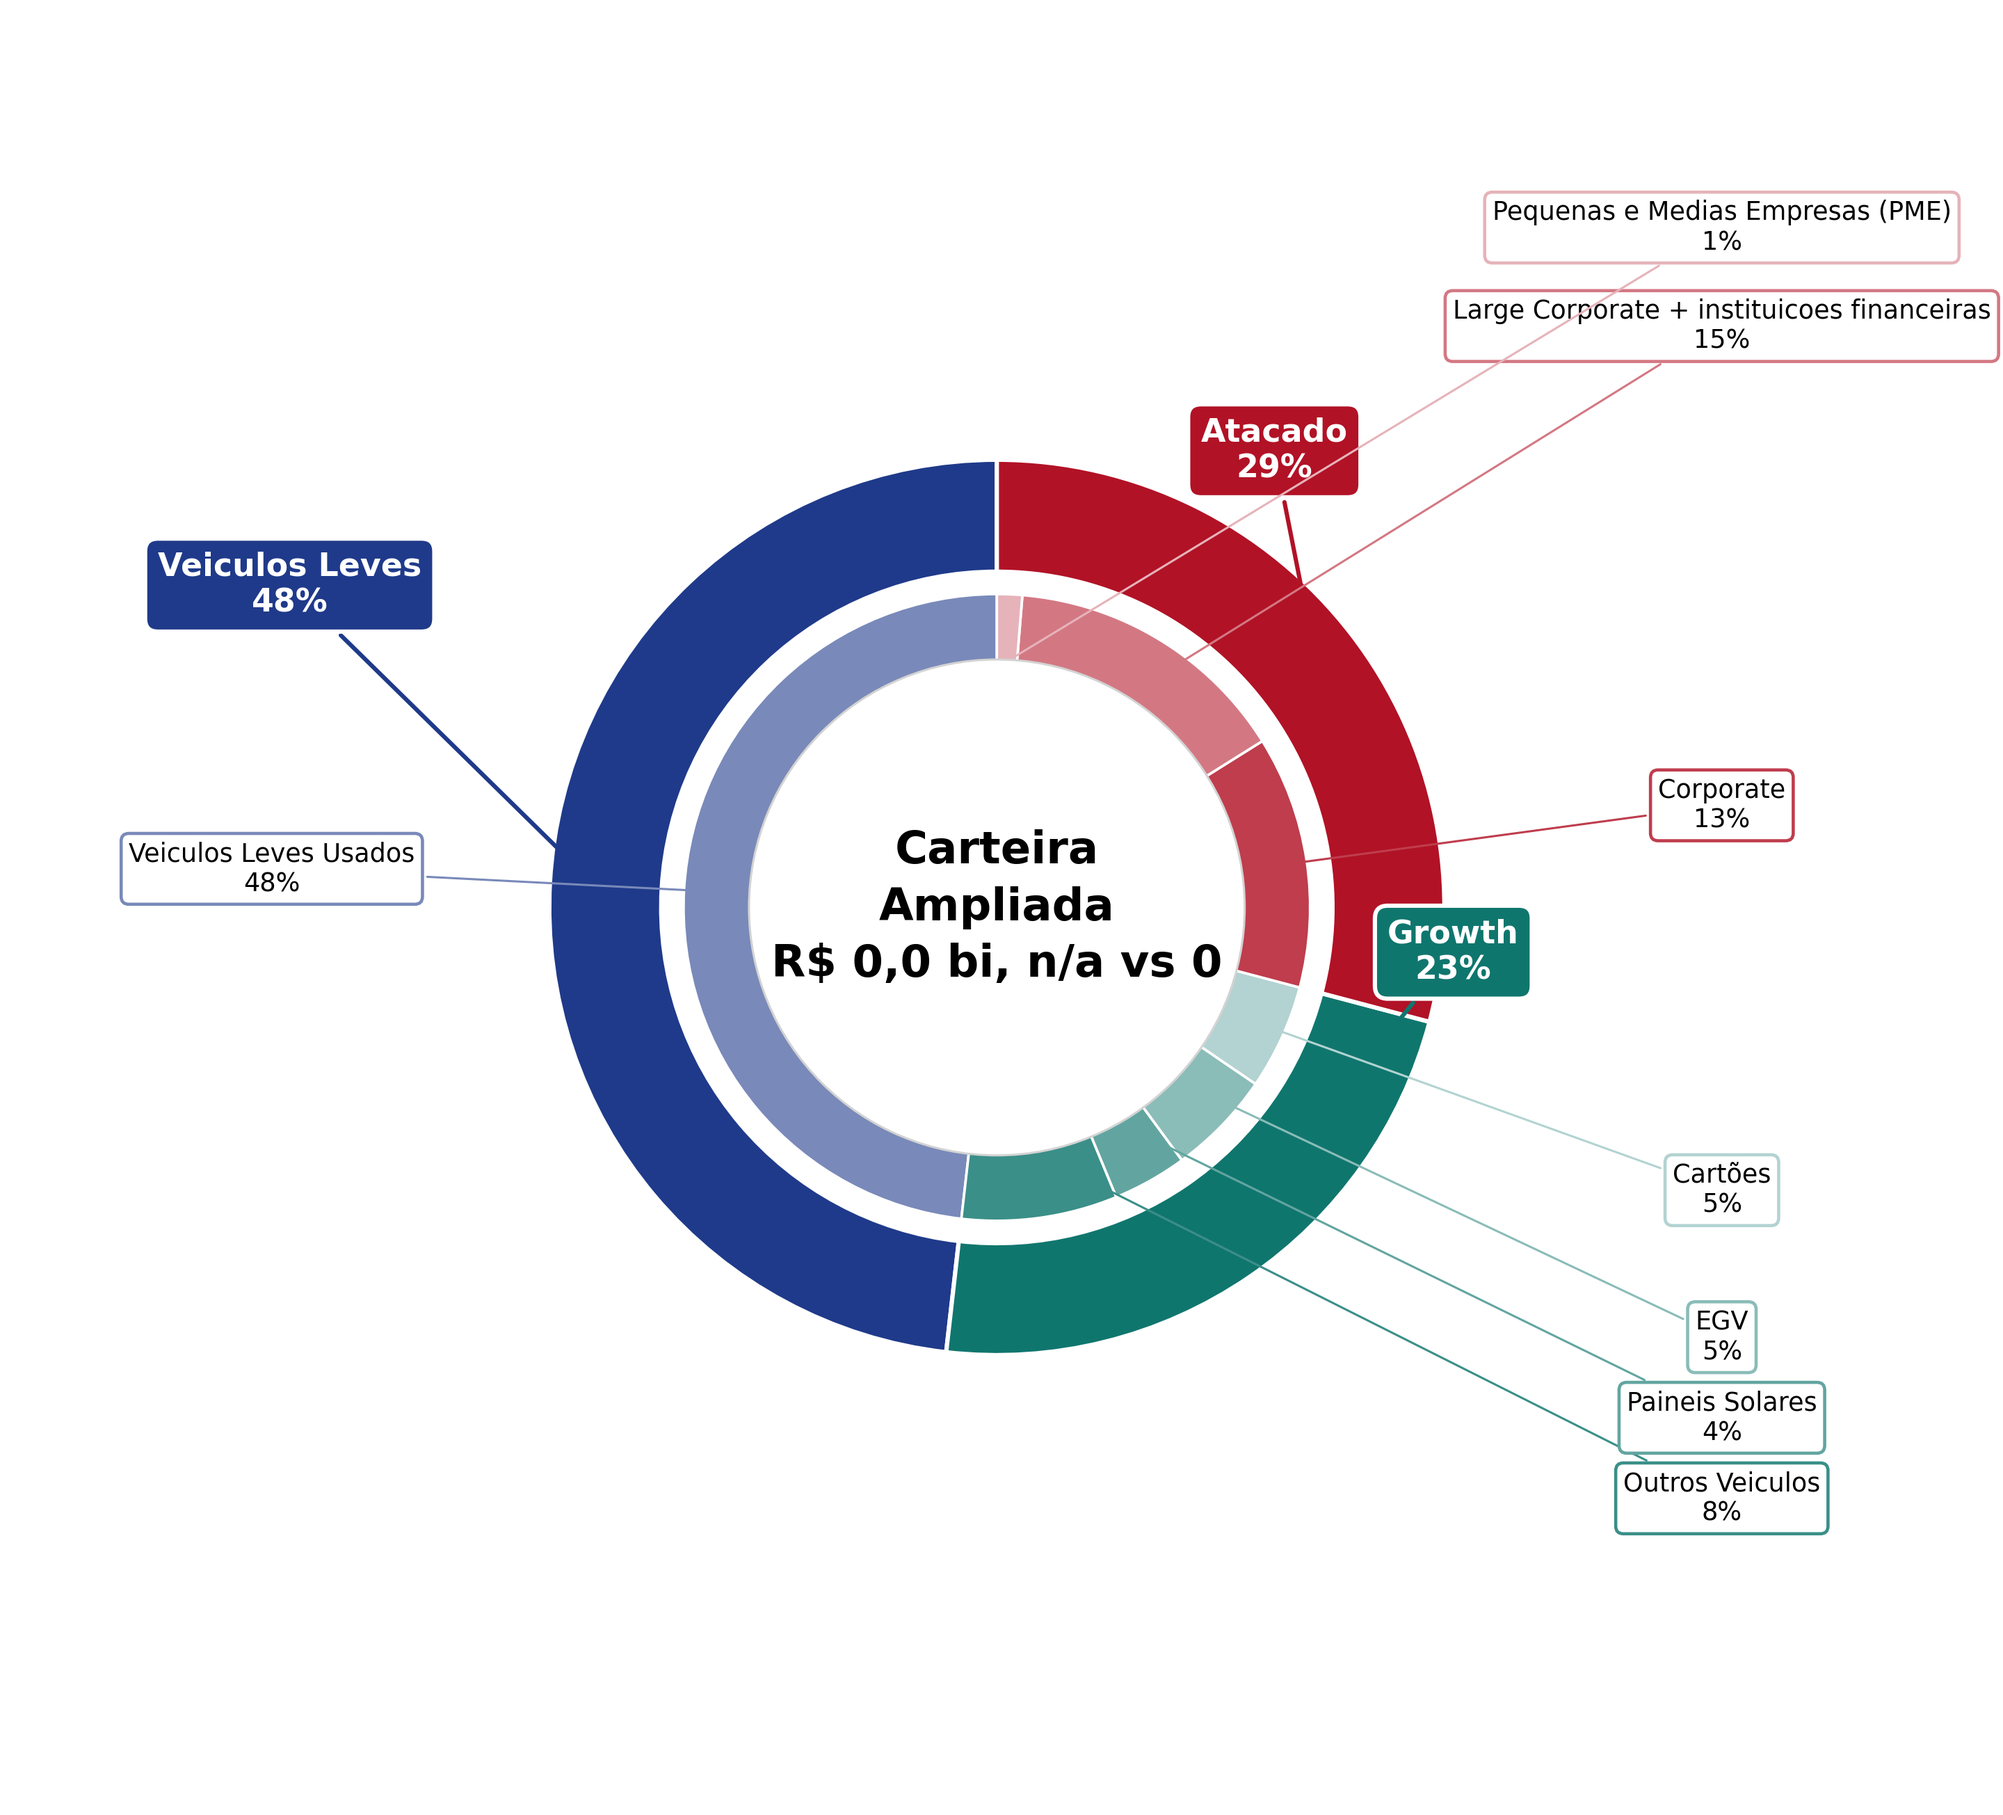
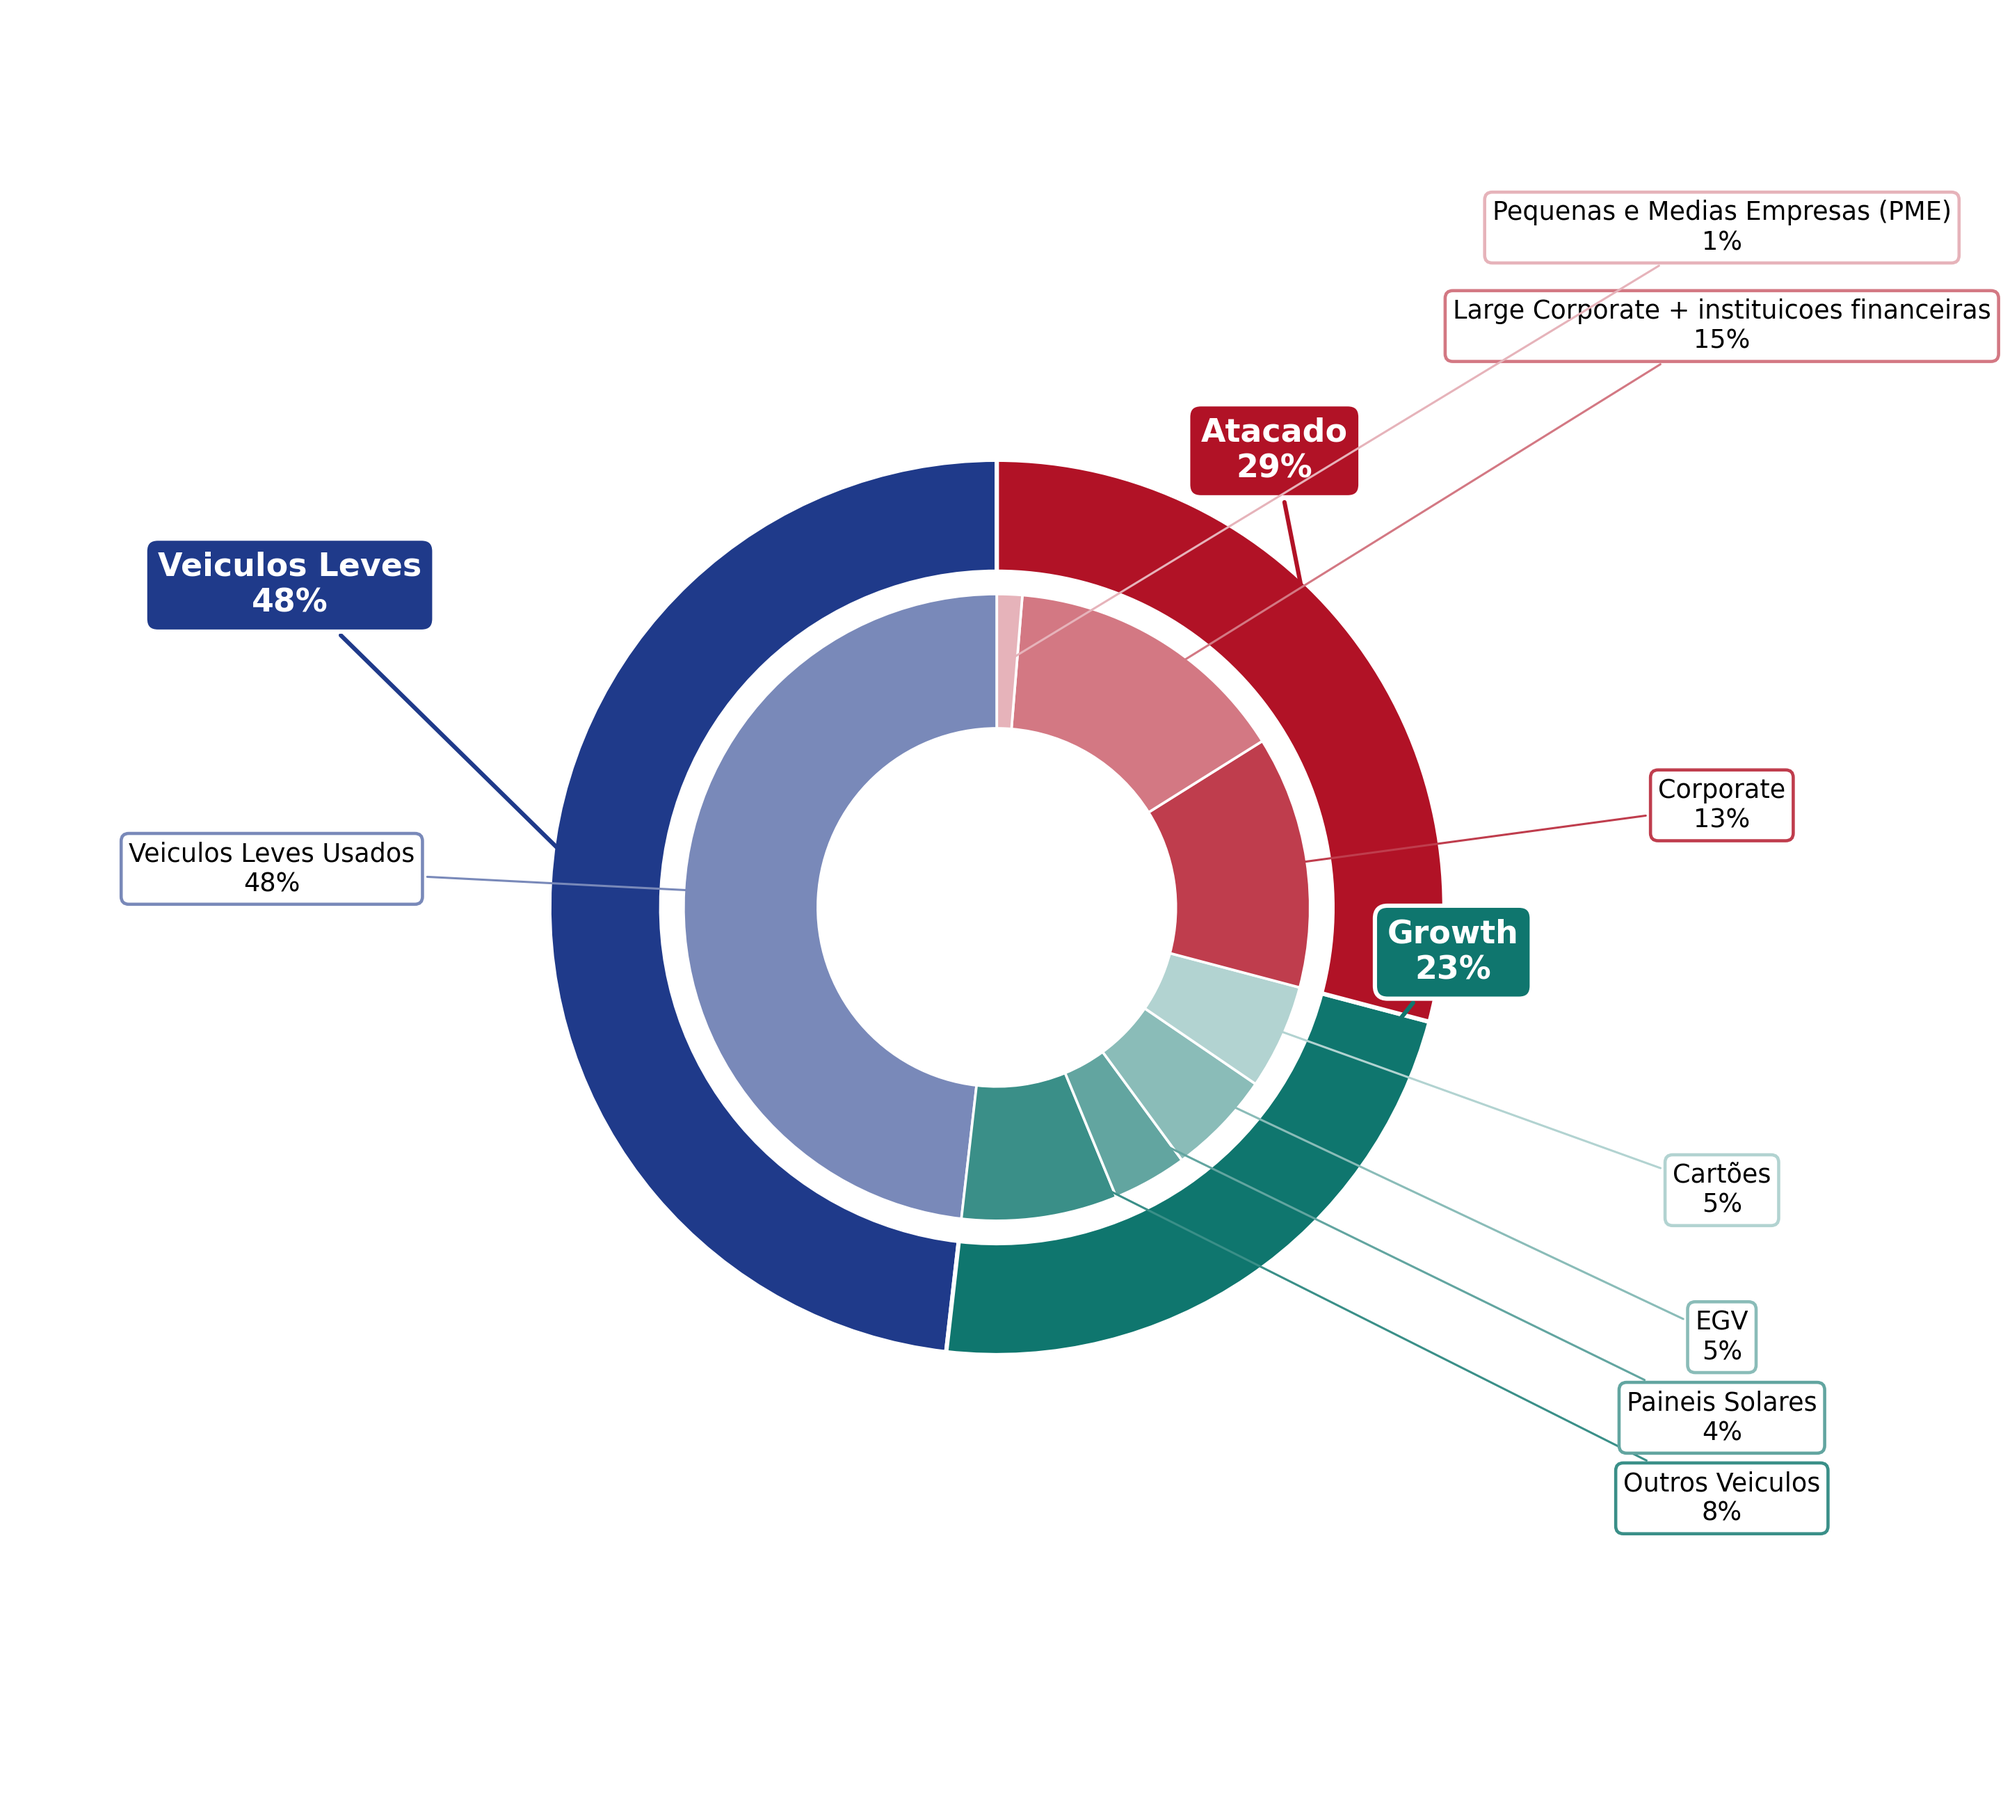
no text on middle of donut

Changed region(s): [[0.375, 0.3415, 0.625, 0.652]]

diff --git a/utils/slide4_charts.py b/utils/slide4_charts.py
@@ -200,22 +200,11 @@ def generate_slide4_charts(*, xlsx_path: Path, output_dir: Path) -> list[Path]:
         raise ValueError(f"Aba nao encontrada: {donut_sheet_name!r}. Disponiveis: {wb.sheetnames}")
     donut_ws = wb[donut_sheet_name]
     categories, labels, values = _extract_slide4_donut_series(donut_ws, source_range="C12:F36")
-
-    center_text_ws = donut_ws
-    if all(
-        center_text_ws[cell_ref].value in (None, "")
-        for cell_ref in ("D45", "D47", "D48", "D49", "F47", "F48", "F49")
-    ):
-        if "Pizza Teste" not in wb.sheetnames:
-            raise ValueError("Nao foi possivel localizar a aba com os dados centrais do donut.")
-        center_text_ws = wb["Pizza Teste"]
-
-    center_text = _build_slide4_center_text(center_text_ws)
     fig, _ax = plot_donut_chart(
         categories=categories,
         labels=labels,
         values=values,
-        center_text=center_text,
+        center_text="",
         title=None,
         output_path=output_dir / "10_pizza_carteira.png",
         figsize=(16, 12),

diff --git a/tests/test_charts_common.py b/tests/test_charts_common.py
@@ -155,6 +155,26 @@ class TestChartsCommon(unittest.TestCase):
             finally:
                 close_figure(fig)
 
+    def test_plot_donut_chart_skips_center_text_when_blank(self):
+        with tempfile.TemporaryDirectory() as td:
+            out_path = Path(td) / "donut-no-center.png"
+
+            fig, ax = plot_donut_chart(
+                categories=["Veiculos Leves", "Growth"],
+                labels=["Veiculos Leves Usados", "EGV"],
+                values=[50, 50],
+                center_text="",
+                output_path=out_path,
+            )
+            try:
+                center_texts = [
+                    text for text in ax.texts
+                    if text.get_position() == (0, 0) and str(text.get_text()).strip()
+                ]
+                self.assertEqual(center_texts, [])
+            finally:
+                close_figure(fig)
+
 
 if __name__ == "__main__":
     unittest.main()

diff --git a/utils/charts_common.py b/utils/charts_common.py
@@ -857,18 +857,19 @@ def plot_donut_chart(
         )
 
     # --- CENTER TEXT ---
-    ax.text(
-        0, 0, center_text,
-        ha="center", va="center",
-        fontsize=14 * font_scale, fontweight="bold",
-        linespacing=1.4,
-        bbox=dict(
-            boxstyle="circle,pad=0.5",
-            facecolor="white",
-            edgecolor="lightgray",
-            linewidth=1,
-        ),
-    )
+    if str(center_text).strip():
+        ax.text(
+            0, 0, center_text,
+            ha="center", va="center",
+            fontsize=14 * font_scale, fontweight="bold",
+            linespacing=1.4,
+            bbox=dict(
+                boxstyle="circle,pad=0.5",
+                facecolor="white",
+                edgecolor="lightgray",
+                linewidth=1,
+            ),
+        )
 
     if title:
         ax.set_title(title, fontsize=15 * font_scale, fontweight="bold", pad=20)
